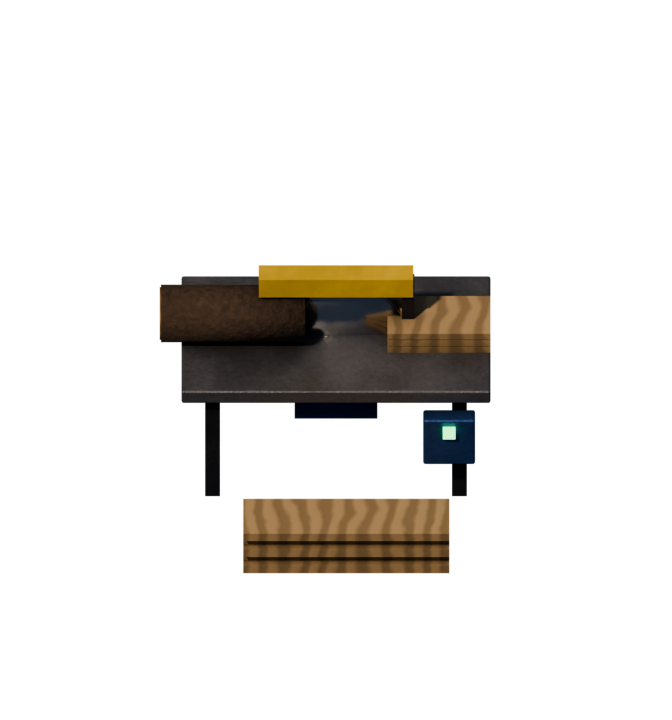
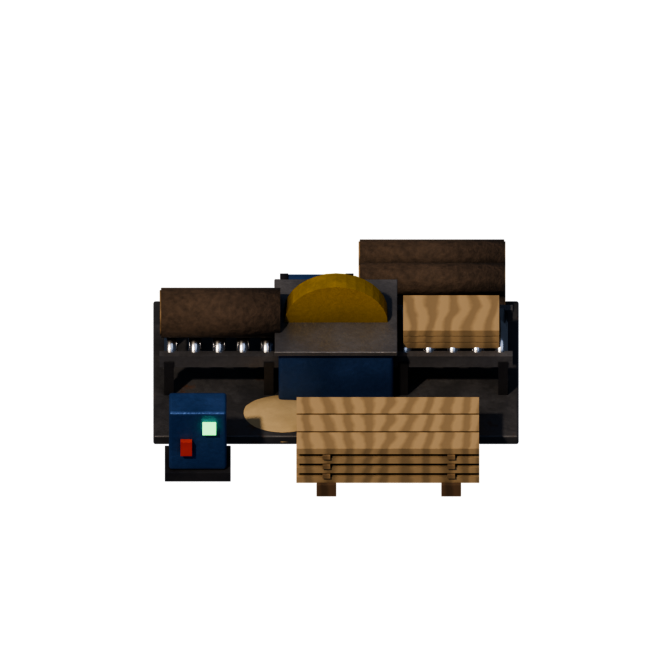
Draw the electric sawmill as a low sawing line
The second sawmill level was the first-level table drawn bigger, which reached about a tile past
the back of its 3 x 3 square. Now it is a sawing line on a steel deck: roller tables in and out,
a blue saw housing with a circular blade under a yellow guard, logs waiting at the back, a board
stack and a switch cabinet at the front. It is kept low, so on its slab it stays inside its square
and does not cover what stands behind it.

Claude-Session: https://claude.ai/code/session_01B41eniRfLNuU51NGw4xHvz

Changed region(s): [[0.2188, 0.3438, 0.7812, 0.8125]]

diff --git a/tools/render_plot_art.py b/tools/render_plot_art.py
@@ -887,31 +887,76 @@ def build_sawmill():
 
 
 def build_electric_sawmill():
-    """The electric sawmill: a steel table with a big circular blade showing through its top, a blue
-    motor underneath, a log being fed in and boards coming out."""
+    """The electric sawmill: a small sawing line on a steel deck, kept low so that what stands behind
+    it shows. A log rolls in on a roller table from the west, through a blue saw housing with a big
+    circular blade under a yellow guard, and boards roll out east. Logs wait at the back, sawn
+    boards lie stacked on bearers at the front, by the switch cabinet and a heap of sawdust."""
     steel = ra.rusty_metal("esaw_steel", (0.2, 0.2, 0.22), rust=0.25)
+    deck = ra.rusty_metal("esaw_deck", (0.12, 0.12, 0.13), rust=0.35, scale=6.0)
     dark = ra.rusty_metal("esaw_dark", (0.06, 0.06, 0.07), rust=0.3)
     blue = ra.rusty_metal("esaw_motor", (0.05, 0.12, 0.35), rust=0.15)
+    yellow = ra.rusty_metal("esaw_yellow", (0.72, 0.46, 0.03), rust=0.2)
     blade = ra.plain("esaw_blade", (0.7, 0.7, 0.72), 0.2, 1.0, grime=0.15)
     fresh = ra.wood("esaw_fresh", (0.5, 0.34, 0.17))
     logs = bark()
     cut = ra.wood("esaw_cut", (0.36, 0.23, 0.11))
-    for x in (-0.6, 0.6):
-        for y in (-0.3, 0.3):
-            ra.box("esaw_leg", (0.07, 0.07, 0.7), Vector((x, y, 0.35)), dark)
-    ra.box("esaw_table", (1.5, 0.8, 0.08), Vector((0, 0, 0.74)), steel, bevel=0.01)
-    ra.cylinder("esaw_blade", 0.34, 0.02, Vector((0, 0, 0.78)), blade, rotation=(math.radians(90), 0, 0), verts=32)
-    ra.box("esaw_guard", (0.75, 0.1, 0.12), Vector((0, 0, 1.14)), ra.plain("esaw_guard", (0.75, 0.5, 0.04), 0.5))
-    ra.box("esaw_guard_arm", (0.06, 0.06, 0.4), Vector((0.35, 0.0, 0.96)), dark)
-    ra.cylinder("esaw_motor", 0.18, 0.4, Vector((0, 0.1, 0.35)), blue, rotation=(0, math.radians(90), 0), verts=20)
-    ra.box("esaw_box", (0.25, 0.08, 0.3), Vector((0.55, -0.43, 0.5)), blue, bevel=0.01)
-    ra.box("esaw_lamp", (0.06, 0.03, 0.06), Vector((0.55, -0.48, 0.58)), ra.emission("esaw_lamp", (0.2, 1.0, 0.3), 3.0))
-    ra.cylinder("esaw_log", 0.14, 0.7, Vector((-0.5, 0, 0.92)), logs, rotation=(0, math.radians(90), 0), verts=14)
-    ra.cylinder("esaw_log_end", 0.128, 0.01, Vector((-0.851, 0, 0.92)), cut, rotation=(0, math.radians(90), 0), verts=14)
+    dust = ra.plain("esaw_sawdust", (0.55, 0.4, 0.2), 0.95, variation=0.2, bump=0.6)
+    ra.box("esaw_deck", (1.9, 1.0, 0.06), Vector((0, 0.05, 0.03)), deck, bevel=0.01)
+    # The roller tables, in and out, on low legs along the line.
+    line_y, roll_z = 0.05, 0.3
+    for x0, x1 in ((-0.92, -0.3), (0.3, 0.92)):
+        for y in (-0.17, 0.17):
+            ra.box("esaw_side", (x1 - x0, 0.04, 0.08), Vector(((x0 + x1) / 2, line_y + y, roll_z)), steel)
+        for k in range(5):
+            x = x0 + 0.06 + k * (x1 - x0 - 0.12) / 4
+            ra.cylinder("esaw_roller", 0.035, 0.32, Vector((x, line_y, roll_z + 0.01)), blade, rotation=(math.radians(90), 0, 0), verts=12)
+        for x in (x0 + 0.05, x1 - 0.05):
+            for y in (-0.17, 0.17):
+                ra.box("esaw_leg", (0.05, 0.05, roll_z), Vector((x, line_y + y, roll_z / 2)), dark)
+    ra.cylinder("esaw_log", 0.13, 0.62, Vector((-0.6, line_y, roll_z + 0.17)), logs, rotation=(0, math.radians(90), 0), verts=16)
+    ra.cylinder("esaw_log_end", 0.118, 0.01, Vector((-0.912, line_y, roll_z + 0.17)), cut, rotation=(0, math.radians(90), 0), verts=16)
     for k in range(3):
-        ra.box("esaw_board", (0.5, 0.26, 0.04), Vector((0.5, 0.0, 0.8 + k * 0.045)), fresh)
-    for k in range(5):
-        ra.box("esaw_stack", (1.0, 0.24, 0.05), Vector((0.05, -0.75 + (k % 2) * 0.03, 0.03 + k * 0.055)), fresh)
+        ra.box("esaw_board", (0.5, 0.26, 0.04), Vector((0.6, line_y, roll_z + 0.06 + k * 0.045)), fresh)
+    # The saw: a blue housing, the blade standing out of it and a yellow guard over the blade.
+    ra.box("esaw_housing", (0.6, 0.5, 0.36), Vector((0, line_y, 0.18 + 0.06)), blue, bevel=0.02)
+    ra.box("esaw_top", (0.64, 0.54, 0.03), Vector((0, line_y, 0.435)), steel, bevel=0.005)
+    ra.cylinder("esaw_blade", 0.24, 0.015, Vector((0, line_y, 0.42)), blade, rotation=(math.radians(90), 0, 0), verts=40)
+    ra.cylinder("esaw_hub", 0.05, 0.03, Vector((0, line_y, 0.42)), dark, rotation=(math.radians(90), 0, 0), verts=12)
+    # The guard: a yellow hood over the upper half of the blade.
+    arc = [(0.27 * math.cos(math.pi * i / 16), 0.27 * math.sin(math.pi * i / 16) + 0.44) for i in range(17)]
+    v = [(x, line_y + e * 0.05, z) for e in (-1, 1) for x, z in arc]
+    faces = [tuple(range(17)), tuple(range(33, 16, -1))] + [(i, i + 1, i + 18, i + 17) for i in range(16)] + [(16, 0, 17, 33)]
+    ra.mesh_from("esaw_guard", v, faces, yellow)
+    # The motor behind the housing.
+    ra.cylinder("esaw_motor", 0.13, 0.34, Vector((-0.1, line_y + 0.38, 0.19)), blue, rotation=(0, math.radians(90), 0), verts=20)
+    for x in (-0.27, 0.07):
+        ra.cylinder("esaw_motor_end", 0.135, 0.04, Vector((x, line_y + 0.38, 0.19)), dark, rotation=(0, math.radians(90), 0), verts=20)
+    ra.box("esaw_motor_feet", (0.3, 0.2, 0.06), Vector((-0.1, line_y + 0.38, 0.06)), dark)
+    # Logs waiting at the back, low.
+    for row, count in enumerate((3, 2)):
+        for i in range(count):
+            y = 0.62 + (i - (count - 1) / 2) * 0.17
+            z = 0.085 + row * 0.15
+            ra.cylinder("esaw_wait", 0.085, 0.75, Vector((0.5, y, z)), logs, rotation=(0, math.radians(90), 0), verts=14)
+            for e in (-1, 1):
+                ra.cylinder("esaw_wait_end", 0.075, 0.01, Vector((0.5 + e * 0.376, y, z)), cut, rotation=(0, math.radians(90), 0), verts=14)
+    # Sawn boards stacked on bearers at the front, with sticks between the layers.
+    for x in (-0.05, 0.6):
+        ra.box("esaw_bearer", (0.1, 0.42, 0.08), Vector((x, -0.62, 0.04)), ra.wood("esaw_bearer", (0.14, 0.08, 0.04)))
+    for k in range(4):
+        z = 0.1 + k * 0.07
+        for j in range(3):
+            ra.box("esaw_stack", (0.95, 0.12, 0.04), Vector((0.27, -0.75 + j * 0.13, z)), fresh)
+        if k < 3:
+            for x in (-0.05, 0.6):
+                ra.box("esaw_stick", (0.04, 0.4, 0.025), Vector((x, -0.62, z + 0.032)), cut)
+    # The switch cabinet with its lamp, and the sawdust that fell under the saw.
+    ra.box("esaw_cabinet", (0.3, 0.16, 0.42), Vector((-0.72, -0.62, 0.27)), blue, bevel=0.015)
+    ra.box("esaw_cabinet_foot", (0.34, 0.2, 0.06), Vector((-0.72, -0.62, 0.03)), dark)
+    ra.box("esaw_lamp", (0.07, 0.03, 0.07), Vector((-0.66, -0.71, 0.38)), ra.emission("esaw_lamp", (0.2, 1.0, 0.3), 3.0))
+    ra.box("esaw_switch", (0.06, 0.03, 0.1), Vector((-0.78, -0.71, 0.24)), ra.plain("esaw_switch", (0.6, 0.05, 0.03), 0.5))
+    d = ra.sphere("esaw_dust", 0.2, Vector((-0.28, -0.28, 0.02)), dust, scale=(1.3, 0.9, 0.35), segments=16)
+    ra.displace(d, 0.02, 0.2, 1)
 
 
 def build_industrial_sawmill():
@@ -948,12 +993,12 @@ def build_industrial_sawmill():
 
 FORESTRY_INDUSTRY = {
     # name: (canvas width, height, camera target height, builder). The forester's buildings cover
-    # 3 × 3 tiles; the sawmills one, like the mill.
+    # 3 × 3 tiles; the sawmills one, like the mill, and the game grows them to their level's square.
     "forester_hut": (240, 256, 1.6, build_forester_hut),
     "forester_lodge": (240, 272, 1.9, build_forester_lodge),
     "forestry_station": (240, 336, 2.9, build_forestry_station),
     "sawmill": (112, 120, 0.6, build_sawmill),
-    "electric_sawmill": (112, 120, 0.6, build_electric_sawmill),
+    "electric_sawmill": (112, 112, 0.35, build_electric_sawmill),
     "industrial_sawmill": (112, 144, 0.85, build_industrial_sawmill),
 }
 
